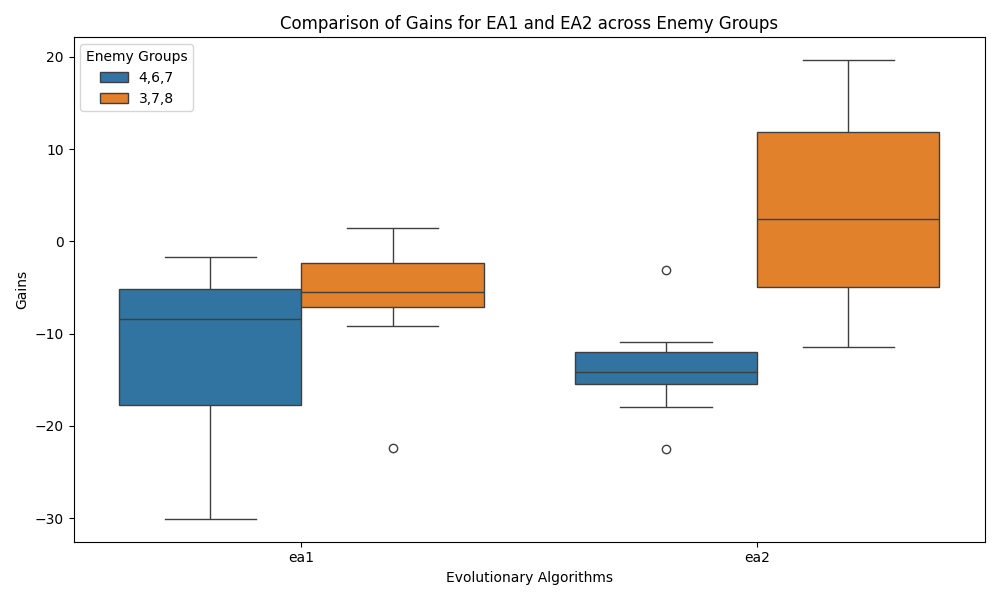
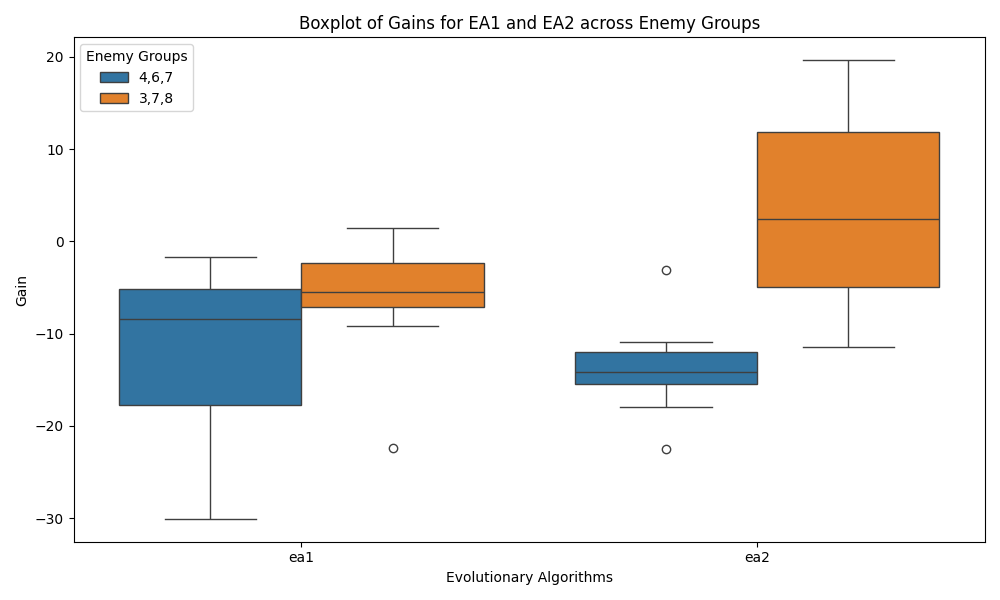
Enhance visualization

Changed region(s): [[0.279, 0.03, 0.775, 0.06], [0.0, 0.45, 0.031, 0.51]]

diff --git a/plot.py b/plot.py
@@ -31,35 +31,35 @@ def aggregate_data(folder_pattern):
 
 
 # Aggregate data from both folders
-folder1_data = aggregate_data('train_ea1_4,6,7/train_*.csv')  # Modify 'folder1' with the actual folder path
-folder2_data = aggregate_data('train_ea2_4,6,7/train_*.csv')  # Modify 'folder2' with the actual folder path
+folder1_data = aggregate_data('train_ea1_3,7,8/train_*.csv')  # Modify 'folder1' with the actual folder path
+folder2_data = aggregate_data('train_ea2_3,7,8/train_*.csv')  # Modify 'folder2' with the actual folder path
 
 # Plotting
 plt.figure(figsize=(10, 6))
 
 # Plot for folder 1
-plt.plot(folder1_data['gen'], folder1_data['best_mean'], label='EA1 Best Fitness', color='skyblue')
+plt.plot(folder1_data['gen'], folder1_data['best_mean'], label='EA1 Best Fitness', color='DodgerBlue')
 plt.plot(folder1_data['gen'], folder1_data['mean_mean'], label='EA1 Mean', color='navy')
 plt.fill_between(folder1_data['gen'],
                  folder1_data['mean_mean'] - folder1_data['mean_std'],
                  folder1_data['mean_mean'] + folder1_data['mean_std'],
-                 color='mediumblue', alpha=0.2, label='EA1 Std')
+                 color='royalblue', alpha=0.2, label='EA1 Std')
 
 # Plot for folder 2
-plt.plot(folder2_data['gen'], folder2_data['best_mean'], label='EA2 Best Fitness', color='tomato', linestyle='--')
-plt.plot(folder2_data['gen'], folder2_data['mean_mean'], label='EA2 Mean', color='red', linestyle='--')
+plt.plot(folder2_data['gen'], folder2_data['best_mean'], label='EA2 Best Fitness', color='orangered', linestyle='--')
+plt.plot(folder2_data['gen'], folder2_data['mean_mean'], label='EA2 Mean', color='brown', linestyle='--')
 plt.fill_between(folder2_data['gen'],
                  folder2_data['mean_mean'] - folder2_data['mean_std'],
                  folder2_data['mean_mean'] + folder2_data['mean_std'],
-                 color='red', alpha=0.2, label='EA2 Std')
+                 color='coral', alpha=0.2, label='EA2 Std')
 
 # Customize the plot
-plt.title('Enemies 4, 6, 7')
+plt.title('Enemy group: [3,7,8]')
 plt.xlabel('Generation')
 plt.ylabel('Fitness')
 plt.legend()
 plt.grid(True)
 
-plt.savefig('graphs/line_plot_enemies_' + ','.join(map(str, [4, 6, 7])) + '.png', dpi=300)
+plt.savefig('graphs/line_plot_enemies_' + ','.join(map(str, [3,7,8])) + '.png', dpi=300)
 
 plt.show()

diff --git a/visualization/T2box-plot.py b/visualization/T2box-plot.py
@@ -31,9 +31,9 @@ for file_path in file_paths:
 # Create the box plot
 plt.figure(figsize=(10, 6))
 sns.boxplot(x='EA', y='gain', hue='Enemy Group', data=data_combined, hue_order=['4,6,7', '3,7,8'])
-plt.title('Comparison of Gains for EA1 and EA2 across Enemy Groups')
+plt.title('Boxplot of Gains for EA1 and EA2 across Enemy Groups')
 plt.xlabel('Evolutionary Algorithms')
-plt.ylabel('Gains')
+plt.ylabel('Gain')
 plt.legend(title='Enemy Groups')
 plt.tight_layout()
 
